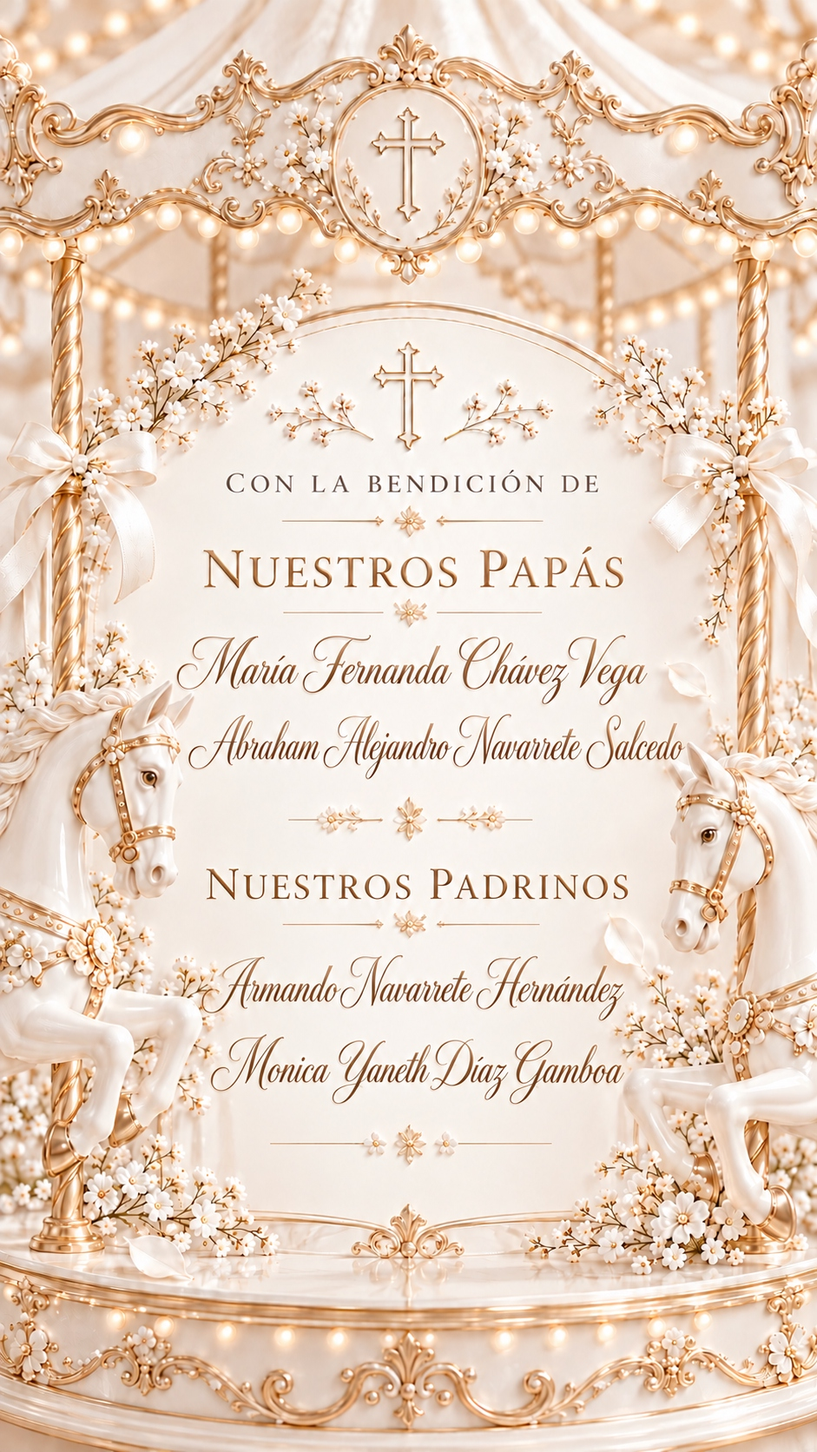
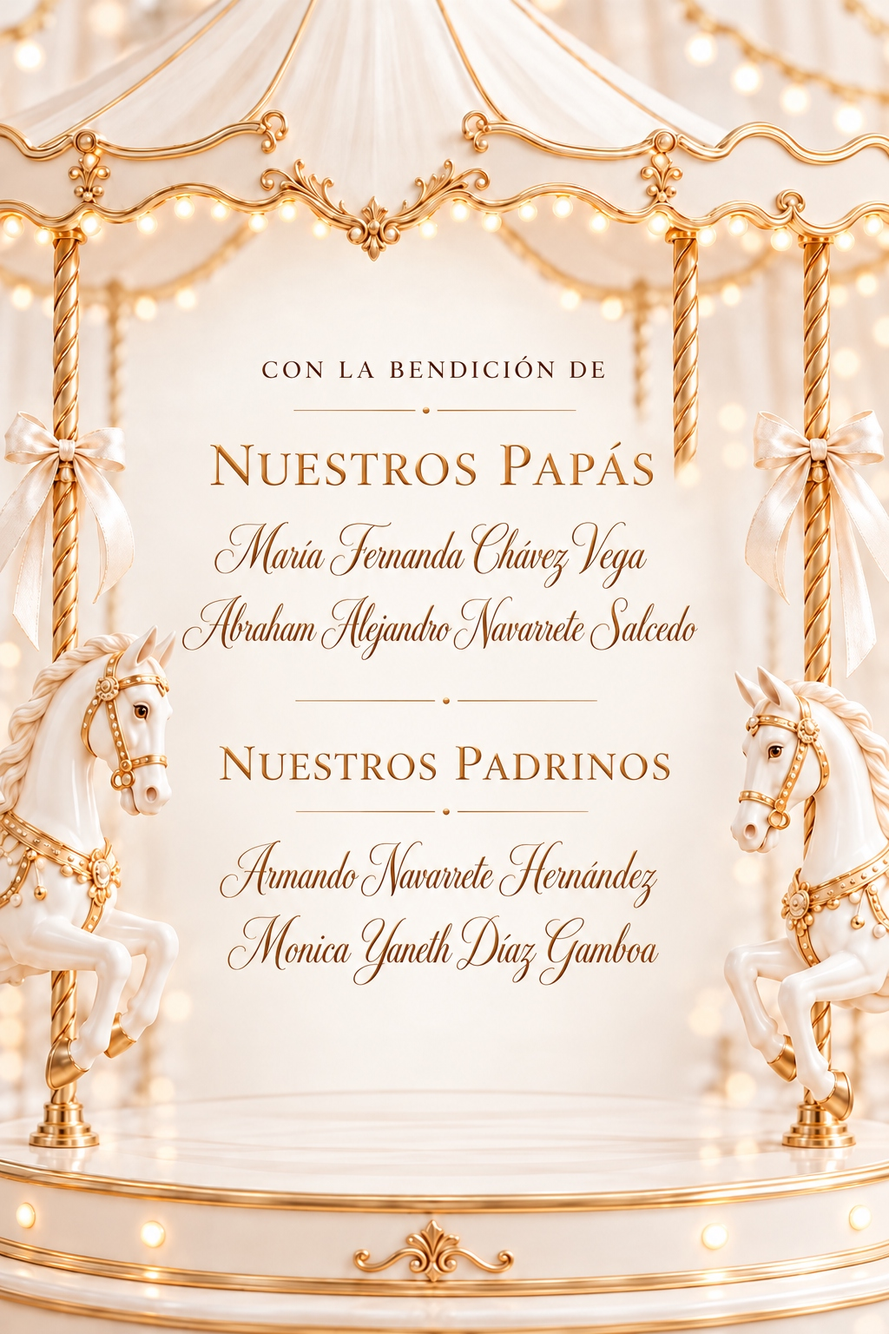
Actualizar imagen de papás y padrinos en la versión minimal a carrusel marfil y oro

diff --git a/index.html b/index.html
@@ -541,7 +541,7 @@ body.theme-baptism_layers .bl-menu .bl-screen-footer{margin-top:clamp(4px,.9dvh,
  body.theme-baptism_layers .bl-menu{overflow-y:auto!important;}
  body.theme-baptism_layers .bl-menu .bl-inner{height:auto;min-height:100dvh;}
 }
-</style></head><body class="theme-baptism_layers event-bautizo design-bautizo"><div class="invitation-background" aria-hidden="true"><img src="assets/fondo-minimal.jpg?v=mv6au6lb" alt="" decoding="async"><div class="background-veil"></div></div><header class="hero bl-cover" data-bl-cover><div class="bl-cover-image"></div><div class="bl-cover-shade"></div><div class="bl-cover-controls"><button class="enter-btn bl-enter" type="button" data-bl-go="menu">Descubrir invitación</button></div></header><main class="page bl-stage" data-bl-stage hidden><section class="bl-screen bl-menu" data-bl-screen="menu" hidden><div class="bl-inner"><button class="bl-back" type="button" data-bl-go="cover"><span aria-hidden="true">‹</span><span>Portada</span></button><div class="bl-panel"><div class="bl-menu-top"><span class="bl-menu-cross" aria-hidden="true"><svg viewBox="0 0 24 28" fill="none" xmlns="http://www.w3.org/2000/svg"><path d="M12 2.5V25.5M5.5 9.5H18.5" stroke="currentColor" stroke-width="1.4" stroke-linecap="round"/></svg></span><span class="bl-menu-title">Detalles</span><span class="bl-menu-subtitle">TODO LO QUE NECESITAS SABER</span><span class="bl-menu-divider" aria-hidden="true"><svg viewBox="0 0 24 28" fill="none" xmlns="http://www.w3.org/2000/svg"><path d="M12 4V24M6 10H18" stroke="currentColor" stroke-width="1.7" stroke-linecap="round"/></svg></span></div><p class="bl-menu-guide">TOCA UNA SECCIÓN PARA VER MÁS</p><div class="bl-rows"><button class="bl-menu-row" type="button" data-bl-go="family"><span class="bl-icon"><svg viewBox="0 0 24 24" fill="none" stroke="currentColor" stroke-width="1.15" stroke-linecap="round" stroke-linejoin="round" aria-hidden="true"><circle cx="8" cy="8" r="2.4"/><circle cx="16" cy="8" r="2.4"/><path d="M3.5 19v-1.2a4.5 4.5 0 0 1 9 0V19M11.5 19v-1.2a4.5 4.5 0 0 1 9 0V19"/></svg></span><span class="bl-row-copy"><strong>Papás y padrinos</strong><small>Con su cariño y bendición</small></span><span class="bl-row-arrow" aria-hidden="true">›</span></button><button class="bl-menu-row" type="button" data-bl-go="date"><span class="bl-icon"><svg viewBox="0 0 24 24" fill="none" stroke="currentColor" stroke-width="1.15" stroke-linecap="round" stroke-linejoin="round" aria-hidden="true"><rect x="4.5" y="6.7" width="15" height="13" rx="1.2"/><path d="M7.8 4.2v4.8M16.2 4.2v4.8M4.5 10.3h15M8 14h2M13 14h2M8 17h2"/></svg></span><span class="bl-row-copy"><strong>Fecha</strong><small>21 de noviembre de 2026</small></span><span class="bl-row-arrow" aria-hidden="true">›</span></button><button class="bl-menu-row" type="button" data-bl-go="ceremony"><span class="bl-icon"><svg viewBox="0 0 24 24" fill="none" stroke="currentColor" stroke-width="1.15" stroke-linecap="round" stroke-linejoin="round" aria-hidden="true"><path d="M4 20h16M6.5 20V10.5L12 6.5l5.5 4V20M10 20v-5.8h4V20M12 2.7v4.1M9.5 4.6h5M9.2 11.7h5.6"/></svg></span><span class="bl-row-copy"><strong>Ceremonia</strong><small>45136, V. Arandas 69, Jardín Real, Zapopan, Jal.</small></span><span class="bl-row-arrow" aria-hidden="true">›</span></button><button class="bl-menu-row" type="button" data-bl-go="reception"><span class="bl-icon"><svg viewBox="0 0 24 24" fill="none" stroke="currentColor" stroke-width="1.15" stroke-linecap="round" stroke-linejoin="round" aria-hidden="true"><path d="M4 4.5h7l-1 6.5a2.7 2.7 0 0 1-5.2 0L4 4.5ZM7.5 13.5v6M4.7 20h5.6M13 4.5h7l-1 6.5a2.7 2.7 0 0 1-5.2 0L13 4.5ZM16.5 13.5v6M13.7 20h5.6"/></svg></span><span class="bl-row-copy"><strong>Recepción</strong><small>Av. Jesús Michel González</small></span><span class="bl-row-arrow" aria-hidden="true">›</span></button><button class="bl-menu-row" type="button" data-bl-go="gifts"><span class="bl-icon"><svg viewBox="0 0 24 24" fill="none" stroke="currentColor" stroke-width="1.15" stroke-linecap="round" stroke-linejoin="round" aria-hidden="true"><rect x="4" y="10" width="16" height="11" rx="1.2"/><path d="M3 7.3h18V10H3zM12 7.3V21M12 7.3C9.2 7.3 6.5 6.3 6.5 4.5c0-2.7 5.5-.8 5.5 2.8Zm0 0c2.8 0 5.5-1 5.5-2.8 0-2.7-5.5-.8-5.5 2.8Z"/></svg></span><span class="bl-row-copy"><strong>Mesas de regalos</strong><small>Liverpool · Isabella y Santina</small></span><span class="bl-row-arrow" aria-hidden="true">›</span></button><button class="bl-menu-row" type="button" data-bl-go="dress"><span class="bl-icon"><svg viewBox="0 0 24 24" fill="none" stroke="currentColor" stroke-width="1.15" stroke-linecap="round" stroke-linejoin="round" aria-hidden="true"><path d="m8.5 4.5-4.5 3-1.6 5.2 3.3 1.4 1.6-2.4V20h9.4v-8.3l1.6 2.4 3.3-1.4L20 7.5l-4.5-3-2.2 2.2h-2.6L8.5 4.5Z"/><path d="M9.6 4.7c.3 1.7 1.1 2.7 2.4 2.7s2.1-1 2.4-2.7"/></svg></span><span class="bl-row-copy"><strong>Código de vestimenta</strong><small>Casual formal · Tonos claros</small></span><span class="bl-row-arrow" aria-hidden="true">›</span></button></div><button type="button" class="bl-menu-confirm-button" data-bl-go="confirm"><span class="bl-menu-confirm-copy"><span class="bl-menu-confirm-label">Confirmar asistencia</span><small class="bl-menu-confirm-hint">Te esperamos</small></span><span class="bl-menu-confirm-whatsapp" aria-hidden="true"><svg viewBox="0 0 448 512" focusable="false"><path d="M380.9 97.1C339 55.1 283.2 32 223.9 32c-122.4 0-222 99.6-222 222 0 39.1 10.2 77.3 29.6 111L0 480l117.7-30.9c32.4 17.7 68.9 27 106.1 27h.1c122.3 0 224.1-99.6 224.1-222 0-59.3-25.2-115-67.1-157zm-157 341.6c-33.2 0-65.7-8.9-94-25.7l-6.7-4-69.8 18.3L72 359.2l-4.4-7c-18.5-29.4-28.2-63.3-28.2-98.2 0-101.7 82.8-184.5 184.6-184.5 49.3 0 95.6 19.2 130.4 54.1 34.8 34.9 56.2 81.2 56.1 130.5 0 101.8-84.9 184.6-186.6 184.6zm101.2-138.2c-5.5-2.8-32.8-16.2-37.9-18-5.1-1.9-8.8-2.8-12.5 2.8-3.7 5.6-14.3 18-17.6 21.8-3.2 3.7-6.5 4.2-12 1.4-32.6-16.3-54-29.1-75.5-66-5.7-9.8 5.7-9.1 16.3-30.3 1.8-3.7.9-6.9-.5-9.7-1.4-2.8-12.5-30.1-17.1-41.2-4.5-10.8-9.1-9.3-12.5-9.5-3.2-.2-6.9-.2-10.6-.2-3.7 0-9.7 1.4-14.8 6.9-5.1 5.6-19.4 19-19.4 46.3 0 27.3 19.9 53.7 22.6 57.4 2.8 3.7 39.1 59.7 94.8 83.8 35.2 15.2 49 16.5 66.6 13.9 10.7-1.6 32.8-13.4 37.4-26.4 4.6-13 4.6-24.1 3.2-26.4-1.3-2.5-5-3.9-10.5-6.6z"/></svg></span></button></div><div class="bl-screen-footer"><span class="bl-menu-footer-label">CON CARIÑO, PARA TI</span> <span aria-hidden="true">✦</span></div></div></section><section class="bl-screen bl-family-screen" data-bl-screen="family" hidden aria-label="Papás y padrinos"><div class="bl-inner"><button class="bl-back" type="button" data-bl-go="menu"><span aria-hidden="true">‹</span><span>Menú</span></button><div class="bl-family-art"><img src="assets/papas-padrinos-minimal.jpg?v=padrinos-20261013" width="941" height="1672" alt="Nuestros papás: María Fernanda Chávez Vega y Abraham Alejandro Navarrete Salcedo. Nuestros padrinos: Armando Navarrete y Mónica Díaz." decoding="async" loading="eager"></div></div></section><section class="bl-screen bl-family-screen bl-dress-screen" data-bl-screen="dress" hidden aria-label="Código de vestimenta"><div class="bl-inner"><button class="bl-back" type="button" data-bl-go="menu"><span aria-hidden="true">‹</span><span>Menú</span></button><div class="bl-family-art"><img src="assets/codigo-vestimenta-minimal.jpg?v=20261013" width="941" height="1672" alt="Código de vestimenta: casual formal, tonos claros." decoding="async" loading="eager"></div></div></section><section class="bl-screen" data-bl-screen="date" hidden aria-label="Nuestra fecha"><div class="bl-inner"><button class="bl-back" type="button" data-bl-go="menu"><span aria-hidden="true">‹</span><span>Menú</span></button><div class="bl-panel"><span class="bl-kicker" data-edit="blDateKicker">CUENTA REGRESIVA</span><h1 class="bl-heading" data-edit="blDateTitle">Nuestra fecha</h1><div class="bl-date-area"><div class="bl-date-ornament" aria-hidden="true">✧</div><div class="bl-date-main" data-bl-day-visual="1">21</div><div class="bl-date-month">NOVIEMBRE · 2026</div><div class="bl-date-weekday">SÁBADO · 02:00 P.M.</div></div><p class="bl-date-label" data-edit="countdownLabel">Falta para este día tan especial</p><div class="countdown bl-countdown countdown-super_minimal" data-date="2026-11-21T14:00"><div class="count-item"><b data-d>00</b><span>Días</span></div><div class="count-item"><b data-h>00</b><span>Horas</span></div><div class="count-item"><b data-m>00</b><span>Min</span></div><div class="count-item"><b data-s>00</b><span>Seg</span></div></div></div><div class="bl-screen-footer" data-edit="blDateFooter"><span class="bl-footer-label">Gracias por guardar esta fecha tan importante.</span> <span aria-hidden="true">✦</span></div></div></section><section class="bl-screen bl-gifts-screen" data-bl-screen="gifts" hidden aria-label="Mesas de regalos"><div class="bl-inner"><button class="bl-back" type="button" data-bl-go="menu"><span aria-hidden="true">‹</span><span>Menú</span></button><div class="bl-panel bl-gifts-panel"><span class="bl-kicker">UN DETALLE ESPECIAL</span><h1 class="bl-heading">Mesas de regalos</h1><p class="bl-gifts-intro">Su compañía es el mejor regalo. Si desean tener un detalle, pueden elegir libremente en nuestras mesas de Liverpool.</p><div class="bl-gifts-list"><div class="bl-gift-entry"><h2 class="bl-gift-person">Santina</h2><span class="bl-gift-store">LIVERPOOL · NÚMERO DE MESA</span><strong class="bl-gift-number">60059015</strong><span class="bl-gift-size">Talla sugerida: 18 meses en adelante</span></div><div class="bl-gift-entry"><h2 class="bl-gift-person">Isabella</h2><span class="bl-gift-store">LIVERPOOL · NÚMERO DE MESA</span><strong class="bl-gift-number">60059018</strong><span class="bl-gift-size">Talla sugerida: 10–12</span></div></div><p class="bl-gifts-note">Detalle a libre elección</p></div><div class="bl-screen-footer"><span class="bl-footer-label">CON CARIÑO, GRACIAS</span> <span aria-hidden="true">✦</span></div></div></section><section class="bl-screen" data-bl-screen="ceremony" hidden aria-label="Dónde será"><div class="bl-inner"><button class="bl-back" type="button" data-bl-go="menu"><span aria-hidden="true">‹</span><span>Menú</span></button><div class="bl-panel"><span class="bl-kicker">CEREMONIA</span><h1 class="bl-heading">Dónde será</h1><div class="bl-place"><span class="bl-place-symbol"><svg viewBox="0 0 24 24" fill="none" stroke="currentColor" stroke-width="1.15" stroke-linecap="round" stroke-linejoin="round" aria-hidden="true"><path d="M4 20h16M6.5 20V10.5L12 6.5l5.5 4V20M10 20v-5.8h4V20M12 2.7v4.1M9.5 4.6h5M9.2 11.7h5.6"/></svg></span><div class="bl-place-type">Ceremonia religiosa</div><h2 data-edit="ceremonyText">Templo de Nuestra Señora de Schoenstatt</h2><div class="bl-rule"></div><p>Nos encantará compartir este momento contigo.</p><button class="bl-map-toggle" type="button" aria-expanded="false"><span class="bl-map-toggle-label">Ver mapa</span> <span aria-hidden="true">＋</span></button><div class="bl-map-box" hidden><iframe title="Mapa de Templo de Nuestra Señora de Schoenstatt" data-src="https://www.google.com/maps?q=20.7421323%2C-103.433006&amp;hl=es&amp;t=m&amp;z=16&amp;output=embed" loading="lazy" referrerpolicy="no-referrer-when-downgrade"></iframe></div><a class="bl-map-external" href="https://maps.app.goo.gl/FHV7gGVF5GYayPuM7" target="_blank" rel="noopener"><span class="bl-maps-link-label">Abrir ubicación en Google Maps</span> <span aria-hidden="true">↗</span></a></div></div><div class="bl-screen-footer"><span class="bl-footer-label">UN MOMENTO PARA RECORDAR</span> <span aria-hidden="true">✦</span></div></div></section><section class="bl-screen" data-bl-screen="reception" hidden aria-label="Nos vemos aquí"><div class="bl-inner"><button class="bl-back" type="button" data-bl-go="menu"><span aria-hidden="true">‹</span><span>Menú</span></button><div class="bl-panel"><span class="bl-kicker">RECEPCIÓN</span><h1 class="bl-heading">Nos vemos aquí</h1><div class="bl-place"><span class="bl-place-symbol"><svg viewBox="0 0 24 24" fill="none" stroke="currentColor" stroke-width="1.15" stroke-linecap="round" stroke-linejoin="round" aria-hidden="true"><path d="M4 4.5h7l-1 6.5a2.7 2.7 0 0 1-5.2 0L4 4.5ZM7.5 13.5v6M4.7 20h5.6M13 4.5h7l-1 6.5a2.7 2.7 0 0 1-5.2 0L13 4.5ZM16.5 13.5v6M13.7 20h5.6"/></svg></span><div class="bl-place-type">Recepción</div><h2 data-edit="receptionText">Hacienda  Provenza</h2><div class="bl-rule"></div><p>Nos encantará compartir este momento contigo.</p><button class="bl-map-toggle" type="button" aria-expanded="false"><span class="bl-map-toggle-label">Ver mapa</span> <span aria-hidden="true">＋</span></button><div class="bl-map-box" hidden><iframe title="Mapa de Hacienda  Provenza" data-src="https://www.google.com/maps?q=20.5551033%2C-103.3968289&amp;hl=es&amp;t=m&amp;z=16&amp;output=embed" loading="lazy" referrerpolicy="no-referrer-when-downgrade"></iframe></div><a class="bl-map-external" href="https://maps.app.goo.gl/9TvipswTw3kcsZye8" target="_blank" rel="noopener"><span class="bl-maps-link-label">Abrir ubicación en Google Maps</span> <span aria-hidden="true">↗</span></a></div></div><div class="bl-screen-footer"><span class="bl-footer-label">UN MOMENTO PARA RECORDAR</span> <span aria-hidden="true">✦</span></div></div></section><section class="bl-screen" data-bl-screen="confirm" hidden aria-label="Te esperamos"><div class="bl-inner"><button class="bl-back" type="button" data-bl-go="menu"><span aria-hidden="true">‹</span><span>Menú</span></button><div class="bl-panel"><span class="bl-kicker">CONFIRMACIÓN</span><h1 class="bl-heading">Te esperamos</h1><div class="bl-confirm-body"><div class="bl-confirm-symbol"><svg viewBox="0 0 24 24" fill="none" stroke="currentColor" stroke-width="1.15" stroke-linecap="round" stroke-linejoin="round" aria-hidden="true"><path d="M12 20s-7-4.6-8.4-8.8C2.2 7 7.3 4 12 8.1 16.7 4 21.8 7 20.4 11.2 19 15.4 12 20Z"/><path d="m8.8 12 2.1 2.1 4.4-4.3"/></svg></div><h2>¿Nos acompañas?</h2><p>Tu presencia hará este momento aún más especial. Confirma tu asistencia para ayudarnos a preparar cada detalle.</p><a class="bl-confirm-cta" href="https://wa.me/523316030653?text=Hola%2C%20con%20mucho%20gusto%20confirmo%20mi%20asistencia%20a%20la%20Primera%20Comuni%C3%B3n%20de%20Isabella%20Juliette%20y%20al%20Bautizo%20de%20Santina%20Fernanda.%0ASer%C3%A1%20muy%20bonito%20acompa%C3%B1arlas%20en%20una%20fecha%20tan%20significativa.%20%F0%9F%A4%8D%0A%0A" target="_blank" rel="noopener"><span class="bl-whatsapp-label">Confirmar por WhatsApp</span><span class="bl-confirm-whatsapp-icon" aria-hidden="true"><svg viewBox="0 0 448 512" focusable="false"><path d="M380.9 97.1C339 55.1 283.2 32 223.9 32c-122.4 0-222 99.6-222 222 0 39.1 10.2 77.3 29.6 111L0 480l117.7-30.9c32.4 17.7 68.9 27 106.1 27h.1c122.3 0 224.1-99.6 224.1-222 0-59.3-25.2-115-67.1-157zm-157 341.6c-33.2 0-65.7-8.9-94-25.7l-6.7-4-69.8 18.3L72 359.2l-4.4-7c-18.5-29.4-28.2-63.3-28.2-98.2 0-101.7 82.8-184.5 184.6-184.5 49.3 0 95.6 19.2 130.4 54.1 34.8 34.9 56.2 81.2 56.1 130.5 0 101.8-84.9 184.6-186.6 184.6zm101.2-138.2c-5.5-2.8-32.8-16.2-37.9-18-5.1-1.9-8.8-2.8-12.5 2.8-3.7 5.6-14.3 18-17.6 21.8-3.2 3.7-6.5 4.2-12 1.4-32.6-16.3-54-29.1-75.5-66-5.7-9.8 5.7-9.1 16.3-30.3 1.8-3.7.9-6.9-.5-9.7-1.4-2.8-12.5-30.1-17.1-41.2-4.5-10.8-9.1-9.3-12.5-9.5-3.2-.2-6.9-.2-10.6-.2-3.7 0-9.7 1.4-14.8 6.9-5.1 5.6-19.4 19-19.4 46.3 0 27.3 19.9 53.7 22.6 57.4 2.8 3.7 39.1 59.7 94.8 83.8 35.2 15.2 49 16.5 66.6 13.9 10.7-1.6 32.8-13.4 37.4-26.4 4.6-13 4.6-24.1 3.2-26.4-1.3-2.5-5-3.9-10.5-6.6z"/></svg></span></a></div></div><div class="bl-screen-footer"><span class="bl-footer-label">UN MOMENTO PARA RECORDAR</span> <span aria-hidden="true">✦</span></div></div></section><button class="bl-audio" type="button" aria-label="Reproducir música" aria-pressed="false">♪</button></main><audio src="assets/musica.mp3?v=mv6au6lb" loop preload="auto"></audio><button class="music-toggle" aria-label="Música">♪</button><script>(function invitationRuntime(){
+</style></head><body class="theme-baptism_layers event-bautizo design-bautizo"><div class="invitation-background" aria-hidden="true"><img src="assets/fondo-minimal.jpg?v=mv6au6lb" alt="" decoding="async"><div class="background-veil"></div></div><header class="hero bl-cover" data-bl-cover><div class="bl-cover-image"></div><div class="bl-cover-shade"></div><div class="bl-cover-controls"><button class="enter-btn bl-enter" type="button" data-bl-go="menu">Descubrir invitación</button></div></header><main class="page bl-stage" data-bl-stage hidden><section class="bl-screen bl-menu" data-bl-screen="menu" hidden><div class="bl-inner"><button class="bl-back" type="button" data-bl-go="cover"><span aria-hidden="true">‹</span><span>Portada</span></button><div class="bl-panel"><div class="bl-menu-top"><span class="bl-menu-cross" aria-hidden="true"><svg viewBox="0 0 24 28" fill="none" xmlns="http://www.w3.org/2000/svg"><path d="M12 2.5V25.5M5.5 9.5H18.5" stroke="currentColor" stroke-width="1.4" stroke-linecap="round"/></svg></span><span class="bl-menu-title">Detalles</span><span class="bl-menu-subtitle">TODO LO QUE NECESITAS SABER</span><span class="bl-menu-divider" aria-hidden="true"><svg viewBox="0 0 24 28" fill="none" xmlns="http://www.w3.org/2000/svg"><path d="M12 4V24M6 10H18" stroke="currentColor" stroke-width="1.7" stroke-linecap="round"/></svg></span></div><p class="bl-menu-guide">TOCA UNA SECCIÓN PARA VER MÁS</p><div class="bl-rows"><button class="bl-menu-row" type="button" data-bl-go="family"><span class="bl-icon"><svg viewBox="0 0 24 24" fill="none" stroke="currentColor" stroke-width="1.15" stroke-linecap="round" stroke-linejoin="round" aria-hidden="true"><circle cx="8" cy="8" r="2.4"/><circle cx="16" cy="8" r="2.4"/><path d="M3.5 19v-1.2a4.5 4.5 0 0 1 9 0V19M11.5 19v-1.2a4.5 4.5 0 0 1 9 0V19"/></svg></span><span class="bl-row-copy"><strong>Papás y padrinos</strong><small>Con su cariño y bendición</small></span><span class="bl-row-arrow" aria-hidden="true">›</span></button><button class="bl-menu-row" type="button" data-bl-go="date"><span class="bl-icon"><svg viewBox="0 0 24 24" fill="none" stroke="currentColor" stroke-width="1.15" stroke-linecap="round" stroke-linejoin="round" aria-hidden="true"><rect x="4.5" y="6.7" width="15" height="13" rx="1.2"/><path d="M7.8 4.2v4.8M16.2 4.2v4.8M4.5 10.3h15M8 14h2M13 14h2M8 17h2"/></svg></span><span class="bl-row-copy"><strong>Fecha</strong><small>21 de noviembre de 2026</small></span><span class="bl-row-arrow" aria-hidden="true">›</span></button><button class="bl-menu-row" type="button" data-bl-go="ceremony"><span class="bl-icon"><svg viewBox="0 0 24 24" fill="none" stroke="currentColor" stroke-width="1.15" stroke-linecap="round" stroke-linejoin="round" aria-hidden="true"><path d="M4 20h16M6.5 20V10.5L12 6.5l5.5 4V20M10 20v-5.8h4V20M12 2.7v4.1M9.5 4.6h5M9.2 11.7h5.6"/></svg></span><span class="bl-row-copy"><strong>Ceremonia</strong><small>45136, V. Arandas 69, Jardín Real, Zapopan, Jal.</small></span><span class="bl-row-arrow" aria-hidden="true">›</span></button><button class="bl-menu-row" type="button" data-bl-go="reception"><span class="bl-icon"><svg viewBox="0 0 24 24" fill="none" stroke="currentColor" stroke-width="1.15" stroke-linecap="round" stroke-linejoin="round" aria-hidden="true"><path d="M4 4.5h7l-1 6.5a2.7 2.7 0 0 1-5.2 0L4 4.5ZM7.5 13.5v6M4.7 20h5.6M13 4.5h7l-1 6.5a2.7 2.7 0 0 1-5.2 0L13 4.5ZM16.5 13.5v6M13.7 20h5.6"/></svg></span><span class="bl-row-copy"><strong>Recepción</strong><small>Av. Jesús Michel González</small></span><span class="bl-row-arrow" aria-hidden="true">›</span></button><button class="bl-menu-row" type="button" data-bl-go="gifts"><span class="bl-icon"><svg viewBox="0 0 24 24" fill="none" stroke="currentColor" stroke-width="1.15" stroke-linecap="round" stroke-linejoin="round" aria-hidden="true"><rect x="4" y="10" width="16" height="11" rx="1.2"/><path d="M3 7.3h18V10H3zM12 7.3V21M12 7.3C9.2 7.3 6.5 6.3 6.5 4.5c0-2.7 5.5-.8 5.5 2.8Zm0 0c2.8 0 5.5-1 5.5-2.8 0-2.7-5.5-.8-5.5 2.8Z"/></svg></span><span class="bl-row-copy"><strong>Mesas de regalos</strong><small>Liverpool · Isabella y Santina</small></span><span class="bl-row-arrow" aria-hidden="true">›</span></button><button class="bl-menu-row" type="button" data-bl-go="dress"><span class="bl-icon"><svg viewBox="0 0 24 24" fill="none" stroke="currentColor" stroke-width="1.15" stroke-linecap="round" stroke-linejoin="round" aria-hidden="true"><path d="m8.5 4.5-4.5 3-1.6 5.2 3.3 1.4 1.6-2.4V20h9.4v-8.3l1.6 2.4 3.3-1.4L20 7.5l-4.5-3-2.2 2.2h-2.6L8.5 4.5Z"/><path d="M9.6 4.7c.3 1.7 1.1 2.7 2.4 2.7s2.1-1 2.4-2.7"/></svg></span><span class="bl-row-copy"><strong>Código de vestimenta</strong><small>Casual formal · Tonos claros</small></span><span class="bl-row-arrow" aria-hidden="true">›</span></button></div><button type="button" class="bl-menu-confirm-button" data-bl-go="confirm"><span class="bl-menu-confirm-copy"><span class="bl-menu-confirm-label">Confirmar asistencia</span><small class="bl-menu-confirm-hint">Te esperamos</small></span><span class="bl-menu-confirm-whatsapp" aria-hidden="true"><svg viewBox="0 0 448 512" focusable="false"><path d="M380.9 97.1C339 55.1 283.2 32 223.9 32c-122.4 0-222 99.6-222 222 0 39.1 10.2 77.3 29.6 111L0 480l117.7-30.9c32.4 17.7 68.9 27 106.1 27h.1c122.3 0 224.1-99.6 224.1-222 0-59.3-25.2-115-67.1-157zm-157 341.6c-33.2 0-65.7-8.9-94-25.7l-6.7-4-69.8 18.3L72 359.2l-4.4-7c-18.5-29.4-28.2-63.3-28.2-98.2 0-101.7 82.8-184.5 184.6-184.5 49.3 0 95.6 19.2 130.4 54.1 34.8 34.9 56.2 81.2 56.1 130.5 0 101.8-84.9 184.6-186.6 184.6zm101.2-138.2c-5.5-2.8-32.8-16.2-37.9-18-5.1-1.9-8.8-2.8-12.5 2.8-3.7 5.6-14.3 18-17.6 21.8-3.2 3.7-6.5 4.2-12 1.4-32.6-16.3-54-29.1-75.5-66-5.7-9.8 5.7-9.1 16.3-30.3 1.8-3.7.9-6.9-.5-9.7-1.4-2.8-12.5-30.1-17.1-41.2-4.5-10.8-9.1-9.3-12.5-9.5-3.2-.2-6.9-.2-10.6-.2-3.7 0-9.7 1.4-14.8 6.9-5.1 5.6-19.4 19-19.4 46.3 0 27.3 19.9 53.7 22.6 57.4 2.8 3.7 39.1 59.7 94.8 83.8 35.2 15.2 49 16.5 66.6 13.9 10.7-1.6 32.8-13.4 37.4-26.4 4.6-13 4.6-24.1 3.2-26.4-1.3-2.5-5-3.9-10.5-6.6z"/></svg></span></button></div><div class="bl-screen-footer"><span class="bl-menu-footer-label">CON CARIÑO, PARA TI</span> <span aria-hidden="true">✦</span></div></div></section><section class="bl-screen bl-family-screen" data-bl-screen="family" hidden aria-label="Papás y padrinos"><div class="bl-inner"><button class="bl-back" type="button" data-bl-go="menu"><span aria-hidden="true">‹</span><span>Menú</span></button><div class="bl-family-art"><img src="assets/papas-padrinos-minimal.jpg?v=padrinos-marfil-20261013" width="941" height="1672" alt="Nuestros papás: María Fernanda Chávez Vega y Abraham Alejandro Navarrete Salcedo. Nuestros padrinos: Armando Navarrete Hernández y Mónica Yaneth Díaz Gamboa." decoding="async" loading="eager"></div></div></section><section class="bl-screen bl-family-screen bl-dress-screen" data-bl-screen="dress" hidden aria-label="Código de vestimenta"><div class="bl-inner"><button class="bl-back" type="button" data-bl-go="menu"><span aria-hidden="true">‹</span><span>Menú</span></button><div class="bl-family-art"><img src="assets/codigo-vestimenta-minimal.jpg?v=20261013" width="941" height="1672" alt="Código de vestimenta: casual formal, tonos claros." decoding="async" loading="eager"></div></div></section><section class="bl-screen" data-bl-screen="date" hidden aria-label="Nuestra fecha"><div class="bl-inner"><button class="bl-back" type="button" data-bl-go="menu"><span aria-hidden="true">‹</span><span>Menú</span></button><div class="bl-panel"><span class="bl-kicker" data-edit="blDateKicker">CUENTA REGRESIVA</span><h1 class="bl-heading" data-edit="blDateTitle">Nuestra fecha</h1><div class="bl-date-area"><div class="bl-date-ornament" aria-hidden="true">✧</div><div class="bl-date-main" data-bl-day-visual="1">21</div><div class="bl-date-month">NOVIEMBRE · 2026</div><div class="bl-date-weekday">SÁBADO · 02:00 P.M.</div></div><p class="bl-date-label" data-edit="countdownLabel">Falta para este día tan especial</p><div class="countdown bl-countdown countdown-super_minimal" data-date="2026-11-21T14:00"><div class="count-item"><b data-d>00</b><span>Días</span></div><div class="count-item"><b data-h>00</b><span>Horas</span></div><div class="count-item"><b data-m>00</b><span>Min</span></div><div class="count-item"><b data-s>00</b><span>Seg</span></div></div></div><div class="bl-screen-footer" data-edit="blDateFooter"><span class="bl-footer-label">Gracias por guardar esta fecha tan importante.</span> <span aria-hidden="true">✦</span></div></div></section><section class="bl-screen bl-gifts-screen" data-bl-screen="gifts" hidden aria-label="Mesas de regalos"><div class="bl-inner"><button class="bl-back" type="button" data-bl-go="menu"><span aria-hidden="true">‹</span><span>Menú</span></button><div class="bl-panel bl-gifts-panel"><span class="bl-kicker">UN DETALLE ESPECIAL</span><h1 class="bl-heading">Mesas de regalos</h1><p class="bl-gifts-intro">Su compañía es el mejor regalo. Si desean tener un detalle, pueden elegir libremente en nuestras mesas de Liverpool.</p><div class="bl-gifts-list"><div class="bl-gift-entry"><h2 class="bl-gift-person">Santina</h2><span class="bl-gift-store">LIVERPOOL · NÚMERO DE MESA</span><strong class="bl-gift-number">60059015</strong><span class="bl-gift-size">Talla sugerida: 18 meses en adelante</span></div><div class="bl-gift-entry"><h2 class="bl-gift-person">Isabella</h2><span class="bl-gift-store">LIVERPOOL · NÚMERO DE MESA</span><strong class="bl-gift-number">60059018</strong><span class="bl-gift-size">Talla sugerida: 10–12</span></div></div><p class="bl-gifts-note">Detalle a libre elección</p></div><div class="bl-screen-footer"><span class="bl-footer-label">CON CARIÑO, GRACIAS</span> <span aria-hidden="true">✦</span></div></div></section><section class="bl-screen" data-bl-screen="ceremony" hidden aria-label="Dónde será"><div class="bl-inner"><button class="bl-back" type="button" data-bl-go="menu"><span aria-hidden="true">‹</span><span>Menú</span></button><div class="bl-panel"><span class="bl-kicker">CEREMONIA</span><h1 class="bl-heading">Dónde será</h1><div class="bl-place"><span class="bl-place-symbol"><svg viewBox="0 0 24 24" fill="none" stroke="currentColor" stroke-width="1.15" stroke-linecap="round" stroke-linejoin="round" aria-hidden="true"><path d="M4 20h16M6.5 20V10.5L12 6.5l5.5 4V20M10 20v-5.8h4V20M12 2.7v4.1M9.5 4.6h5M9.2 11.7h5.6"/></svg></span><div class="bl-place-type">Ceremonia religiosa</div><h2 data-edit="ceremonyText">Templo de Nuestra Señora de Schoenstatt</h2><div class="bl-rule"></div><p>Nos encantará compartir este momento contigo.</p><button class="bl-map-toggle" type="button" aria-expanded="false"><span class="bl-map-toggle-label">Ver mapa</span> <span aria-hidden="true">＋</span></button><div class="bl-map-box" hidden><iframe title="Mapa de Templo de Nuestra Señora de Schoenstatt" data-src="https://www.google.com/maps?q=20.7421323%2C-103.433006&amp;hl=es&amp;t=m&amp;z=16&amp;output=embed" loading="lazy" referrerpolicy="no-referrer-when-downgrade"></iframe></div><a class="bl-map-external" href="https://maps.app.goo.gl/FHV7gGVF5GYayPuM7" target="_blank" rel="noopener"><span class="bl-maps-link-label">Abrir ubicación en Google Maps</span> <span aria-hidden="true">↗</span></a></div></div><div class="bl-screen-footer"><span class="bl-footer-label">UN MOMENTO PARA RECORDAR</span> <span aria-hidden="true">✦</span></div></div></section><section class="bl-screen" data-bl-screen="reception" hidden aria-label="Nos vemos aquí"><div class="bl-inner"><button class="bl-back" type="button" data-bl-go="menu"><span aria-hidden="true">‹</span><span>Menú</span></button><div class="bl-panel"><span class="bl-kicker">RECEPCIÓN</span><h1 class="bl-heading">Nos vemos aquí</h1><div class="bl-place"><span class="bl-place-symbol"><svg viewBox="0 0 24 24" fill="none" stroke="currentColor" stroke-width="1.15" stroke-linecap="round" stroke-linejoin="round" aria-hidden="true"><path d="M4 4.5h7l-1 6.5a2.7 2.7 0 0 1-5.2 0L4 4.5ZM7.5 13.5v6M4.7 20h5.6M13 4.5h7l-1 6.5a2.7 2.7 0 0 1-5.2 0L13 4.5ZM16.5 13.5v6M13.7 20h5.6"/></svg></span><div class="bl-place-type">Recepción</div><h2 data-edit="receptionText">Hacienda  Provenza</h2><div class="bl-rule"></div><p>Nos encantará compartir este momento contigo.</p><button class="bl-map-toggle" type="button" aria-expanded="false"><span class="bl-map-toggle-label">Ver mapa</span> <span aria-hidden="true">＋</span></button><div class="bl-map-box" hidden><iframe title="Mapa de Hacienda  Provenza" data-src="https://www.google.com/maps?q=20.5551033%2C-103.3968289&amp;hl=es&amp;t=m&amp;z=16&amp;output=embed" loading="lazy" referrerpolicy="no-referrer-when-downgrade"></iframe></div><a class="bl-map-external" href="https://maps.app.goo.gl/9TvipswTw3kcsZye8" target="_blank" rel="noopener"><span class="bl-maps-link-label">Abrir ubicación en Google Maps</span> <span aria-hidden="true">↗</span></a></div></div><div class="bl-screen-footer"><span class="bl-footer-label">UN MOMENTO PARA RECORDAR</span> <span aria-hidden="true">✦</span></div></div></section><section class="bl-screen" data-bl-screen="confirm" hidden aria-label="Te esperamos"><div class="bl-inner"><button class="bl-back" type="button" data-bl-go="menu"><span aria-hidden="true">‹</span><span>Menú</span></button><div class="bl-panel"><span class="bl-kicker">CONFIRMACIÓN</span><h1 class="bl-heading">Te esperamos</h1><div class="bl-confirm-body"><div class="bl-confirm-symbol"><svg viewBox="0 0 24 24" fill="none" stroke="currentColor" stroke-width="1.15" stroke-linecap="round" stroke-linejoin="round" aria-hidden="true"><path d="M12 20s-7-4.6-8.4-8.8C2.2 7 7.3 4 12 8.1 16.7 4 21.8 7 20.4 11.2 19 15.4 12 20Z"/><path d="m8.8 12 2.1 2.1 4.4-4.3"/></svg></div><h2>¿Nos acompañas?</h2><p>Tu presencia hará este momento aún más especial. Confirma tu asistencia para ayudarnos a preparar cada detalle.</p><a class="bl-confirm-cta" href="https://wa.me/523316030653?text=Hola%2C%20con%20mucho%20gusto%20confirmo%20mi%20asistencia%20a%20la%20Primera%20Comuni%C3%B3n%20de%20Isabella%20Juliette%20y%20al%20Bautizo%20de%20Santina%20Fernanda.%0ASer%C3%A1%20muy%20bonito%20acompa%C3%B1arlas%20en%20una%20fecha%20tan%20significativa.%20%F0%9F%A4%8D%0A%0A" target="_blank" rel="noopener"><span class="bl-whatsapp-label">Confirmar por WhatsApp</span><span class="bl-confirm-whatsapp-icon" aria-hidden="true"><svg viewBox="0 0 448 512" focusable="false"><path d="M380.9 97.1C339 55.1 283.2 32 223.9 32c-122.4 0-222 99.6-222 222 0 39.1 10.2 77.3 29.6 111L0 480l117.7-30.9c32.4 17.7 68.9 27 106.1 27h.1c122.3 0 224.1-99.6 224.1-222 0-59.3-25.2-115-67.1-157zm-157 341.6c-33.2 0-65.7-8.9-94-25.7l-6.7-4-69.8 18.3L72 359.2l-4.4-7c-18.5-29.4-28.2-63.3-28.2-98.2 0-101.7 82.8-184.5 184.6-184.5 49.3 0 95.6 19.2 130.4 54.1 34.8 34.9 56.2 81.2 56.1 130.5 0 101.8-84.9 184.6-186.6 184.6zm101.2-138.2c-5.5-2.8-32.8-16.2-37.9-18-5.1-1.9-8.8-2.8-12.5 2.8-3.7 5.6-14.3 18-17.6 21.8-3.2 3.7-6.5 4.2-12 1.4-32.6-16.3-54-29.1-75.5-66-5.7-9.8 5.7-9.1 16.3-30.3 1.8-3.7.9-6.9-.5-9.7-1.4-2.8-12.5-30.1-17.1-41.2-4.5-10.8-9.1-9.3-12.5-9.5-3.2-.2-6.9-.2-10.6-.2-3.7 0-9.7 1.4-14.8 6.9-5.1 5.6-19.4 19-19.4 46.3 0 27.3 19.9 53.7 22.6 57.4 2.8 3.7 39.1 59.7 94.8 83.8 35.2 15.2 49 16.5 66.6 13.9 10.7-1.6 32.8-13.4 37.4-26.4 4.6-13 4.6-24.1 3.2-26.4-1.3-2.5-5-3.9-10.5-6.6z"/></svg></span></a></div></div><div class="bl-screen-footer"><span class="bl-footer-label">UN MOMENTO PARA RECORDAR</span> <span aria-hidden="true">✦</span></div></div></section><button class="bl-audio" type="button" aria-label="Reproducir música" aria-pressed="false">♪</button></main><audio src="assets/musica.mp3?v=mv6au6lb" loop preload="auto"></audio><button class="music-toggle" aria-label="Música">♪</button><script>(function invitationRuntime(){
  const ready=()=>{
   const reduced=window.matchMedia?.('(prefers-reduced-motion: reduce)').matches;
   const hero=document.querySelector('.hero'),heroInner=document.querySelector('.hero-inner');
